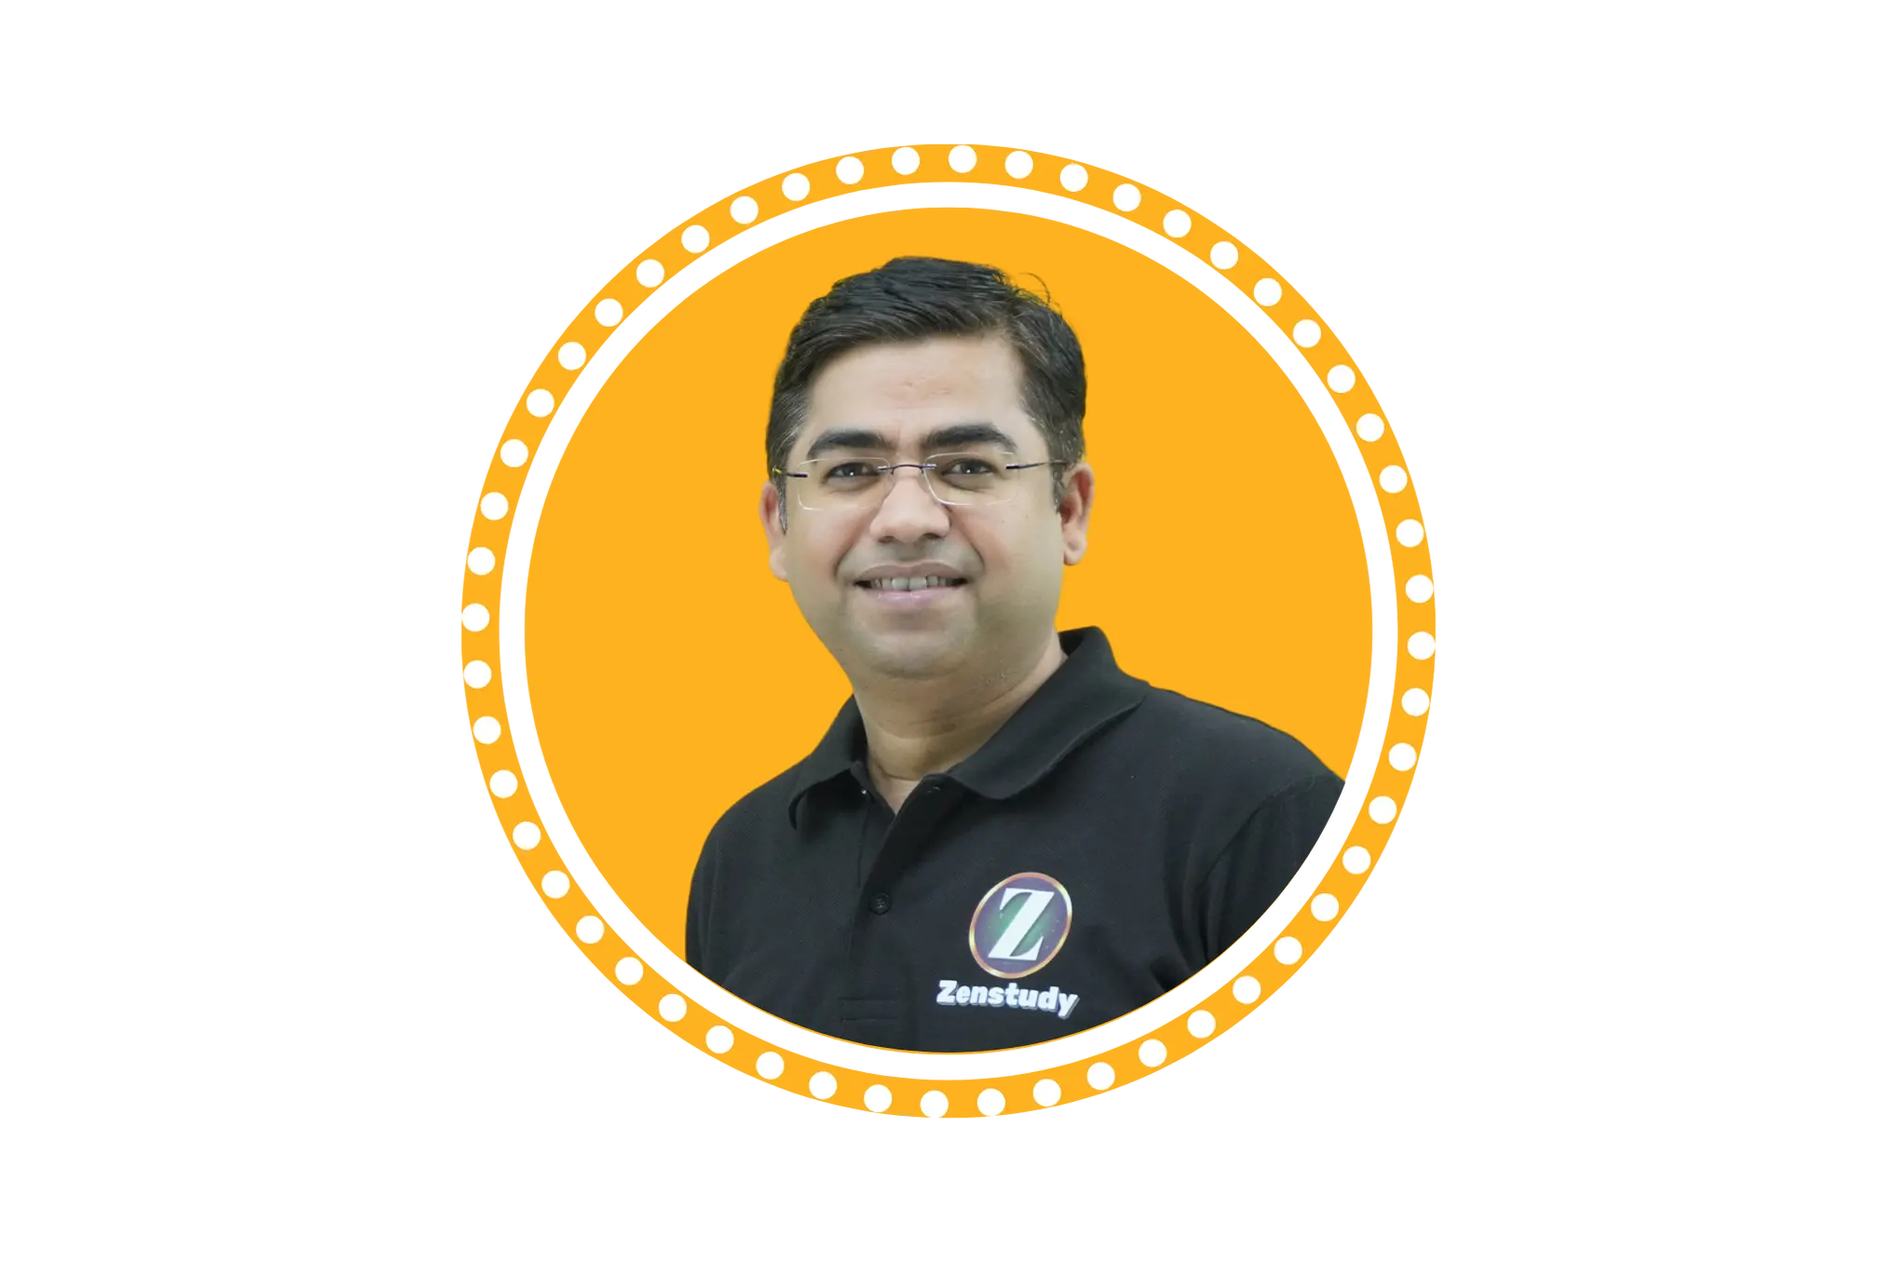
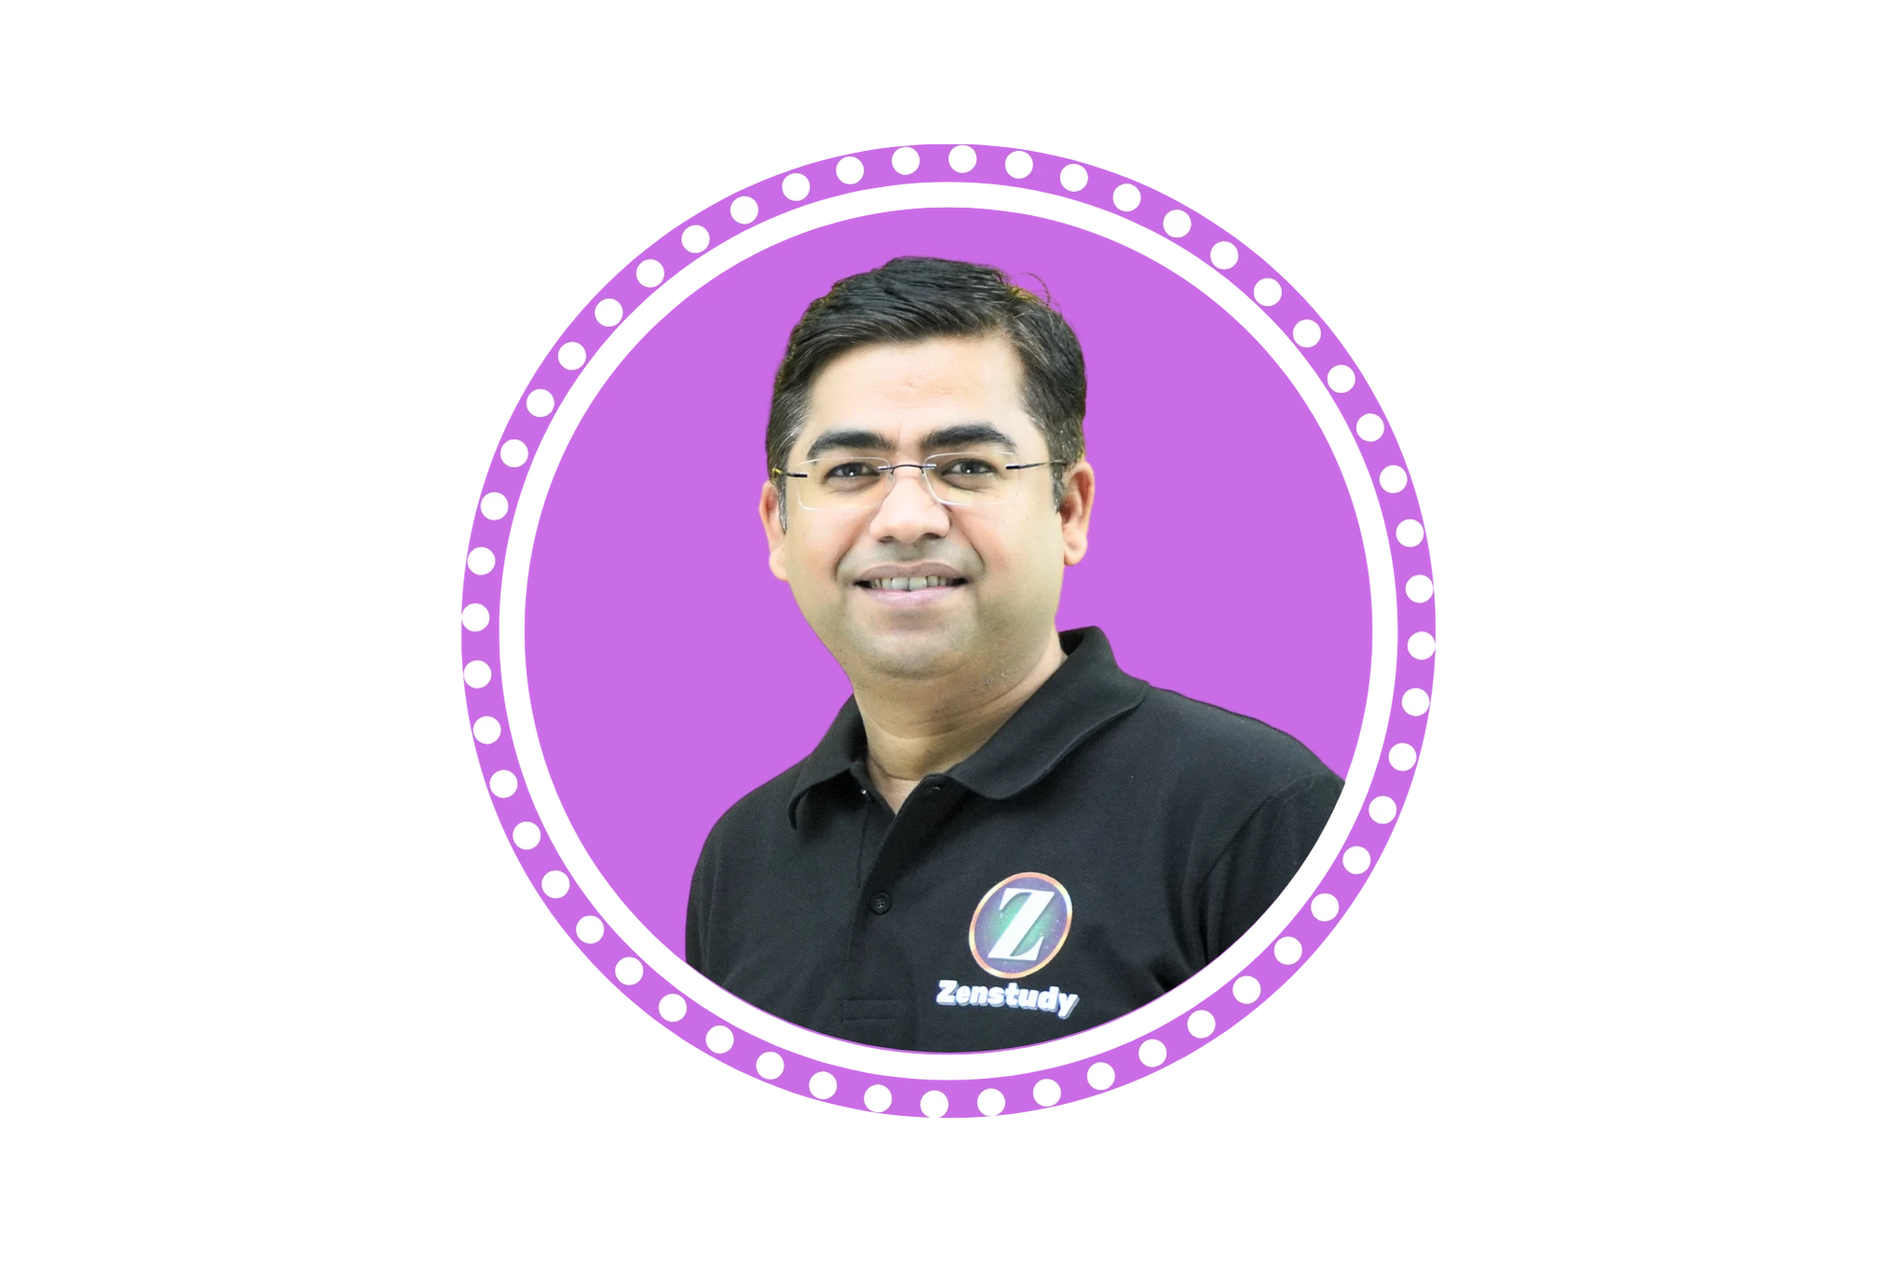
carousel update

Changed region(s): [[0.2166, 0.0929, 0.7736, 0.8982]]

diff --git a/src/components/OurTeamSlider.jsx b/src/components/OurTeamSlider.jsx
@@ -10,7 +10,7 @@ import { FaArrowLeft, FaArrowRight } from "react-icons/fa";
 const NextArrow = ({ onClick }) => {
   return (
     <button
-      className="absolute z-10 right-4 lg:top-[600px] md:top-[620px] top-[620px] transform -translate-y-1/2 bg-blue-600 text-white p-2 rounded-full shadow-md"
+      className="absolute z-10 right-4 lg:top-[500px] md:top-[420px] top-[420px] transform -translate-y-1/2 bgGredient-purple-lr text-white p-2 rounded-full shadow-md"
       onClick={onClick}
     >
       <FaArrowRight />
@@ -22,7 +22,7 @@ const NextArrow = ({ onClick }) => {
 const PrevArrow = ({ onClick }) => {
   return (
     <button
-      className="absolute z-10 right-16 lg:top-[600px] md:top-[620px] top-[620px] transform -translate-y-1/2 bg-blue-600 text-white p-2 rounded-full shadow-md"
+      className="absolute z-10 right-16 lg:top-[500px] md:top-[420px] top-[420px] transform -translate-y-1/2 bgGredient-purple-lr text-white p-2 rounded-full shadow-md"
       onClick={onClick}
     >
       <FaArrowLeft />
@@ -76,35 +76,31 @@ function OurTeamSlider() {
   };
 
   const facultyData = [
-
- 
     {
       id: 1,
       title: "Krittika Mishra",
       role: "GS Faculty",
-      description:
-        "An insightful educator, thinker, and keen observer. With a strong academic background, she holds a B.Tech in Biotechnology from the prestigious National Institute of Technology (NIT), Durgapur. Following her engineering studies, she ventured into the development sector, where her hands-on experiences sparked a deeper interest in understanding societal structures and national issues. Her career evolved as she transitioned into the educational sphere, where she now focuses on developing lectures for General Studies. Her areas of expertise include Society, Ethics, Economy, and Environmental Education. Passionate about teaching, Krittika is known for her engaging and thoughtful approach, as well as her ability to foster teamwork and collaboration within academic environments.",
+      // description:
+      //   "An insightful educator, thinker, and keen observer. With a strong academic background, she holds a B.Tech in Biotechnology from the prestigious National Institute of Technology (NIT), Durgapur. Following her engineering studies, she ventured into the development sector, where her hands-on experiences sparked a deeper interest in understanding societal structures and national issues. Her career evolved as she transitioned into the educational sphere, where she now focuses on developing lectures for General Studies. Her areas of expertise include Society, Ethics, Economy, and Environmental Education. Passionate about teaching, Krittika is known for her engaging and thoughtful approach, as well as her ability to foster teamwork and collaboration within academic environments.",
 
-      thumbnail:'/assets/kritika.webp',
-
+      thumbnail: "/assets/krittika.webp",
     },
-
+    
     {
       id: 2,
-      title: "Ansh Arora",
-      role: "Designing Head",
-      description:
-        "Ansh Arora, Designing Head of Zenstudy. With a unique fusion of creativity and strategic insight, Ansh excels as both a designer and business developer. With over 3 years of experience in branding, digital design, and product development. He creates innovative design solutions that not only captivate but also drive business growth. Ansh has a proven track record in identifying market opportunities and developing tailored strategies that align with business goals. Ansh believes that effective design should tell a story and enhance user experience while contributing to overall business objectives. When not crafting impactful designs or strategizing new ventures, he enjoys socialising and staying up-to-date with the latest industry trends.",
-      thumbnail:'/assets/ansh.webp',
-
+      title: "Rakesh Kumar Singh",
+      role: "GS Faculty",
+      // description:
+      //   "",
+      thumbnail: "/assets/rakesh.webp",
     },
     {
       id: 3,
-      title: "Gaurav Rai",
-      role: "Chief Technical Officer",
-      description:
-        "Gaurav Rai, Chief Technical Officer of Zenstudy, is a seasoned full-stack developer with a passion for Edtech. With a BTech in Computer Science, he has built a strong foundation in technology. His experience at Prutor.ai and various freelance projects has honed his skills and fueled his entrepreneurial spirit. At Zenstudy, Gaurav leverages his expertise to develop innovative learning platforms. His leadership, technical acumen, and dedication to creating impactful educational experiences make him a valuable asset to the edtech industry.",
-      thumbnail:'/assets/gaurav.webp',
+      title: "Ravish Anand",
+      role: "GS Faculty",
+      // description:
+      //   "Ansh Arora, Designing Head of Zenstudy. With a unique fusion of creativity and strategic insight, Ansh excels as both a designer and business developer. With over 3 years of experience in branding, digital design, and product development. He creates innovative design solutions that not only captivate but also drive business growth. Ansh has a proven track record in identifying market opportunities and developing tailored strategies that align with business goals. Ansh believes that effective design should tell a story and enhance user experience while contributing to overall business objectives. When not crafting impactful designs or strategizing new ventures, he enjoys socialising and staying up-to-date with the latest industry trends.",
+      thumbnail: "/assets/ravish.webp",
     },
   ];
 
@@ -137,10 +133,11 @@ function OurTeamSlider() {
             {facultyData.map((faculty, index) => (
               <div
                 key={index}
-                className={`flex flex-col items-center justify-between rounded-2xl overflow-hidden shadow-lg shadow-slate-500 my-20 p-6 transition-transform duration-500 bg-white ${index === activeSlide
+                className={`flex flex-col items-center justify-between rounded-2xl overflow-hidden shadow-lg shadow-slate-500 my-20 p-6 transition-transform duration-500 bg-white ${
+                  index === activeSlide
                     ? "transform translate-y-[30px] opacity-100"
                     : "opacity-70"
-                  }`}
+                }`}
               >
                 <div className=" flex justify-center">
                   <img
@@ -151,35 +148,29 @@ function OurTeamSlider() {
                 </div>
 
                 <div className="text-center mt-4">
-                  <h2 className="text-xl font-bold text-blue-600">
+                  <h2 className="text-xl font-bold textPurple">
                     {faculty.title}
                   </h2>
                   <p className="italic text-gray-500">{faculty.role}</p>
                 </div>
 
-                <div className="text-center mt-4 px-6">
-                  <p className="text-gray-700 text-sm">
-                    {/* Conditionally render the full description or truncated version */}
-                    {showFullText[faculty.id]
-                      ? faculty.description
-                      : truncateText(faculty.description, 20)}
-                  </p>
-                  <button
-                    className="text-blue-600 mt-2"
-                    onClick={() => toggleReadMore(faculty.id)}
-                  >
-                    {showFullText[faculty.id] ? "Read Less" : "Read More"}
-                  </button>
-                </div>
-
                 {
-                  //   <div className="flex w-full justify-end mt-6 space-x-4">
-                  //   <FaLinkedin className="text-blue-600 w-6 h-6 cursor-pointer" />
-                  //   <FaInstagram className="text-blue-600 w-6 h-6 cursor-pointer" />
-                  //   <FaFacebook className="text-blue-600 w-6 h-6 cursor-pointer" />
-                  //   <FaTwitter className="text-blue-600 w-6 h-6 cursor-pointer" />
+                  //   <div className="text-center mt-4 px-6">
+                  //   <p className="text-gray-700 text-sm">
+                  //     {/* Conditionally render the full description or truncated version */}
+                  //     {showFullText[faculty.id]
+                  //       ? faculty.description
+                  //       : truncateText(faculty.description, 20)}
+                  //   </p>
+                  //   <button
+                  //     className="textGreen mt-2"
+                  //     onClick={() => toggleReadMore(faculty.id)}
+                  //   >
+                  //     {showFullText[faculty.id] ? "Read Less" : "Read More"}
+                  //   </button>
                   // </div>
                 }
+
               </div>
             ))}
           </Slider>

diff --git a/src/components/OurTeam.jsx b/src/components/OurTeam.jsx
@@ -1,5 +1,5 @@
-import React from "react";
-import { FaFacebookF, FaInstagram, FaTwitter, FaLinkedinIn } from "react-icons/fa";
+import { FaFacebookF, FaInstagram, FaLinkedinIn } from "react-icons/fa";
+import { FaXTwitter } from "react-icons/fa6";
 import OurTeamSlider from "./OurTeamSlider";
 import { Link } from "react-router-dom";
 
@@ -8,7 +8,7 @@ const OurTeam = () => {
     <div>
       <div className=" flex flex-col lg:flex-row items-center lg:justify-between px-6 lg:px-16 py-20 lg:py-20">
 
-        <div className="bg-blue-50 p-8 rounded-2xl shadow-lg flex flex-col items-center w-full md:w-[1/2] lg:w-[1/2] relative">
+        <div className="bg-purple-50 p-8 rounded-2xl shadow-lg flex flex-col items-center w-full md:w-[1/2] lg:w-[1/2] relative">
           {/* Profile Image */}
           <div className="relative lg:-mt-36 md:-mt-30 -mt-28">
             <img
@@ -19,7 +19,7 @@ const OurTeam = () => {
           </div>
 
           {/* Name and Role */}
-          <h3 className="text-xl font-bold text-[#054BB4] mt-6">Kumud Kishore</h3>
+          <h3 className="text-xl font-bold textPurple mt-6">Kumud Kishore</h3>
           <p className="text-gray-500 text-sm mb-4">Founder</p>
 
           {/* Social Icons */}
@@ -27,28 +27,28 @@ const OurTeam = () => {
             <Link
               to="https://www.facebook.com/kumud.kishore2"
               target="blank"
-              className="hover:bg-[#4267B2] rounded-full p-1"
+              className="hover:bg-[#4267B2] rounded-lg hover:text-white p-1"
             >
               <FaFacebookF size={25} className="hover:text-white" />
             </Link>
             <Link
               to="https://www.instagram.com/kumud_dreamer/"
               target="blank"
-              className="hover:bg-gradient-to-br from-[#405DE6] via-[#5B51D8] to-[#E1306C] rounded-full p-1"
+              className="hover:bg-gradient-to-br from-[#E1306C] via-[#5B51D8] to-[#E1306C] rounded-lg hover:text-white p-1"
             >
               <FaInstagram size={25} className="hover:text-white" />
             </Link>
             <Link
               to="https://twitter.com/ZenstudyZ"
               target="blank"
-              className="hover:bg-[#1DA1F2] rounded-full p-1"
+              className="hover:bg-[#000000] rounded-lg hover:text-white p-1"
             >
-              <FaTwitter size={25} className="hover:text-white" />
+              <FaXTwitter  size={25} className="hover:text-white" />
             </Link>
             <Link
               to="https://www.linkedin.com/in/kumud-kishore-34517514"
               target="blank"
-              className="hover:bg-[#1DA1F2] rounded-full p-1"
+              className="hover:bg-[#1DA1F2] rounded-lg hover:text-white p-1"
             >
               <FaLinkedinIn size={25} className="hover:text-white" />
             </Link>
@@ -57,7 +57,7 @@ const OurTeam = () => {
 
         {/* Founder Bio */}
         <div className="mt-10 lg:mt-0 lg:ml-12 text-center lg:text-right  w-full md:w-[1/2] lg:w-[1/2]">
-          <h3 className="text-3xl font-bold">Meet Our Founder</h3>
+          <h3 className="text-3xl textPurpleGradient font-bold">Meet Our Founder</h3>
           <p className="text-gray-600 mt-4 text-sm text-center lg:text-right">
             He is a passionate individual who strives to simplify all aspects of life. This drive for simplification leads him to explore and experiment in various fields.
           </p>
@@ -68,14 +68,14 @@ const OurTeam = () => {
             His desire for simplicity also extends to his thoughts, which he expresses through poetry and storytelling. This allows him to release his deepest emotions, including love, care, happiness, sadness, spirituality, and more.
           </p>
 
-          <blockquote className="text-blue-600 text-lg md:text-xl lg:text-xl font-bold italic mt-4">
+          <blockquote className="textPurpleGradient text-lg md:text-xl lg:text-xl font-bold italic mt-4">
             “The method of education should be to ignite the mind, befriend the heart, and together, embark on a journey to discover the soul.”
           </blockquote>
         </div>
       </div>
 
       <div>
-        <h3 className="text-3xl -mb-14 lg:mb-0 md:mb-0 lg:text-left md:text-left text-center px-20 font-bold">Meet Our Team</h3>
+        <h3 className=" textPurpleGradient text-3xl -mb-14 lg:mb-0 md:mb-0 lg:text-left md:text-left text-center px-20 font-bold">Meet Our Team</h3>
         <OurTeamSlider />
 
       </div>

diff --git a/src/components/Carousel.jsx b/src/components/Carousel.jsx
@@ -1,51 +1,41 @@
+import axios from 'axios';
 import React, { useState, useEffect, Fragment, useMemo } from 'react';
 
 const Carousel = () => {
   const [currentSlide, setCurrentSlide] = useState(0);
   const [isHovered, setIsHovered] = useState(false);
   const [isMobile, setIsMobile] = useState(window.innerWidth < 768);
+  const [carouselData, setCarouselData] = useState([]);
 
-  const desktopImages = useMemo(() => [
-    {
-      imgurl: "assets/newBanner1.webp",
-      link: "https://zenstudy.in/courseDetailslive/UPSC-Foundation-Batch"
-    },
-    {
-      imgurl: "assets/newBanner2.webp",
-      link: "https://zenstudy.in/courseDetailslive/UPSC-Foundation-Batch"
-    },
-    {
-      imgurl: "assets/newBanner3.webp",
-      link: "https://zenstudy.in/courseDetailslive/UPSC-Foundation-Batch"
-    }
-  ], []);
+  // Prepare image list based on screen size
+  const images = useMemo(() => {
+    return carouselData.map((item) => ({
+      id: item._id,
+      title: item.title,
+      imageUrl: isMobile ? item.mobileImageUrl : item.pcImageUrl,
+      link: item.link,
+    }));
+  }, [carouselData, isMobile]);
 
-  const mobileImages = useMemo(() => [
-    {
-      imgurl: "assets/mobileBanner1.webp",
-      link: "https://zenstudy.in/courseDetailslive/UPSC-Foundation-Batch"
-    },
-    {
-      imgurl: "assets/mobileBanner2.webp",
-      link: "https://zenstudy.in/courseDetailslive/UPSC-Foundation-Batch"
-    },
-    {
-      imgurl: "assets/mobileBanner3.webp",
-      link: "https://zenstudy.in/courseDetailslive/UPSC-Foundation-Batch"
-    }
-  ], []);
-
-  const images = useMemo(() => (isMobile ? mobileImages : desktopImages), [isMobile, desktopImages, mobileImages]);
-
-  // Debounced resize handler
+  // Fetch data and handle resize
   useEffect(() => {
-    let timeoutId;
+    const getCarousel = async () => {
+      try {
+        const response = await axios.get(`${process.env.REACT_APP_API}zenstudy/api/carousel/active`);
+        setCarouselData(response.data.data);
+      } catch (error) {
+        console.error("Error in getCarousel:", error);
+      }
+    };
 
+    getCarousel();
+
+    let timeoutId;
     const handleResize = () => {
       clearTimeout(timeoutId);
       timeoutId = setTimeout(() => {
         setIsMobile(window.innerWidth < 768);
-      }, 200); // Debounce delay: 200ms
+      }, 200);
     };
 
     window.addEventListener('resize', handleResize);
@@ -57,7 +47,7 @@ const Carousel = () => {
 
   // Auto slide
   useEffect(() => {
-    if (!isHovered) {
+    if (!isHovered && images.length > 0) {
       const interval = setInterval(() => {
         setCurrentSlide((prev) => (prev + 1) % images.length);
       }, 5000);
@@ -81,13 +71,13 @@ const Carousel = () => {
         <div className="relative h-60 overflow-hidden bg-black rounded-lg md:h-64">
           {images.map((im, index) => (
             <div
-              key={index}
+              key={im.id}
               className={`duration-700 ease-in-out ${currentSlide === index ? 'block' : 'hidden'}`}
               data-carousel-item
             >
-              <a href={im.link} rel="noopener noreferrer">
+              <a href={im.link} rel="noopener noreferrer" >
                 <img
-                  src={im.imgurl}
+                  src={im.imageUrl}
                   loading="lazy"
                   className="absolute block w-full h-full -translate-x-1/2 -translate-y-1/2 top-1/2 left-1/2"
                   alt={`Banner ${index + 1}`}

diff --git a/src/components/About.jsx b/src/components/About.jsx
@@ -121,7 +121,7 @@ const About = () => {
           className="relative lg:w-[50%] w-[100%] mb-8 lg:mb-0 lg:mr-16 p-6 lg:p-10 md:p-8"
         >
           <animated.img
-            src="/assets/aboutUs.webp"
+            src="/assets/about-us.webp"
             alt="Team"
             className="w-full h-auto object-cover"
           />
@@ -224,7 +224,7 @@ const About = () => {
           className="relative mb-8 lg:mb-0 lg:ml-16 p-6 lg:p-10 md:p-8"
         >
           <img
-            src="/assets/mission.webp"
+            src="/assets/our-mission.webp"
             alt="Mission"
             className="w-full h-auto object-cover"
           />
@@ -249,7 +249,7 @@ const About = () => {
           className="relative mb-8 lg:mb-0 lg:mr-16 p-6 lg:p-10 md:p-8"
         >
           <animated.img
-            src="/assets/vision.webp"
+            src="/assets/our-vision.webp"
             alt="Team"
             className="w-full h-auto object-cover"
           />
@@ -343,7 +343,7 @@ const About = () => {
           className="relative mb-8 lg:mb-0 lg:ml-16 p-6 lg:p-10 md:p-8"
         >
           <img
-            src="/assets/wwa.webp"
+            src="/assets/who-we-are.webp"
             alt="Who We Are"
             className="w-full h-auto object-cover"
           />
@@ -367,7 +367,7 @@ const About = () => {
           className="relative lg:w-[50%] w-[100%] mt-4 lg:mt-0 mb-8 lg:mb-0 lg:mr-16 p-6 lg:p-10 md:p-8"
         >
           <animated.img
-            src="/assets/whywe.webp"
+            src="/assets/why-choose-us.webp"
             alt="Team"
             className="w-full h-auto object-cover"
           />

diff --git a/src/components/Home.jsx b/src/components/Home.jsx
@@ -11,7 +11,7 @@ const Home = () => {
   return (
     <main className="w-full">
       {/* Hero Carousel */}
-      <Suspense fallback={<div className="min-h-[50vh]">Loading carousel...</div>}>
+      <Suspense fallback={<div className="min-h-[50vh] flex justify-center items-center">Loading carousel...</div>}>
         <section><Carousel /></section>
       </Suspense>
 

diff --git a/src/components/Main/HomeText.jsx b/src/components/Main/HomeText.jsx
@@ -69,7 +69,7 @@ const HomeText = () => {
           className="relative image-section md:w-1/2 flex justify-center items-center"
         >
           <img
-            src="/assets/boylogo.webp"
+            src="/assets/herosection.webp"
             alt="Zenstudy Character Illustration"
             className="w-[100%] rounded-lg"
             loading="lazy"

diff --git a/src/PrivateRoute.jsx b/src/PrivateRoute.jsx
@@ -9,7 +9,7 @@ const PrivateRoute = ({ children }) => {
     return <Loading />;
   }
 
-  return isAuthenticated ? children : <Navigate to="/" replace />;
+  return isAuthenticated ? children : <Navigate to="https://zenstudy.in/sign-In" replace />;
 };
 
 export default PrivateRoute;
